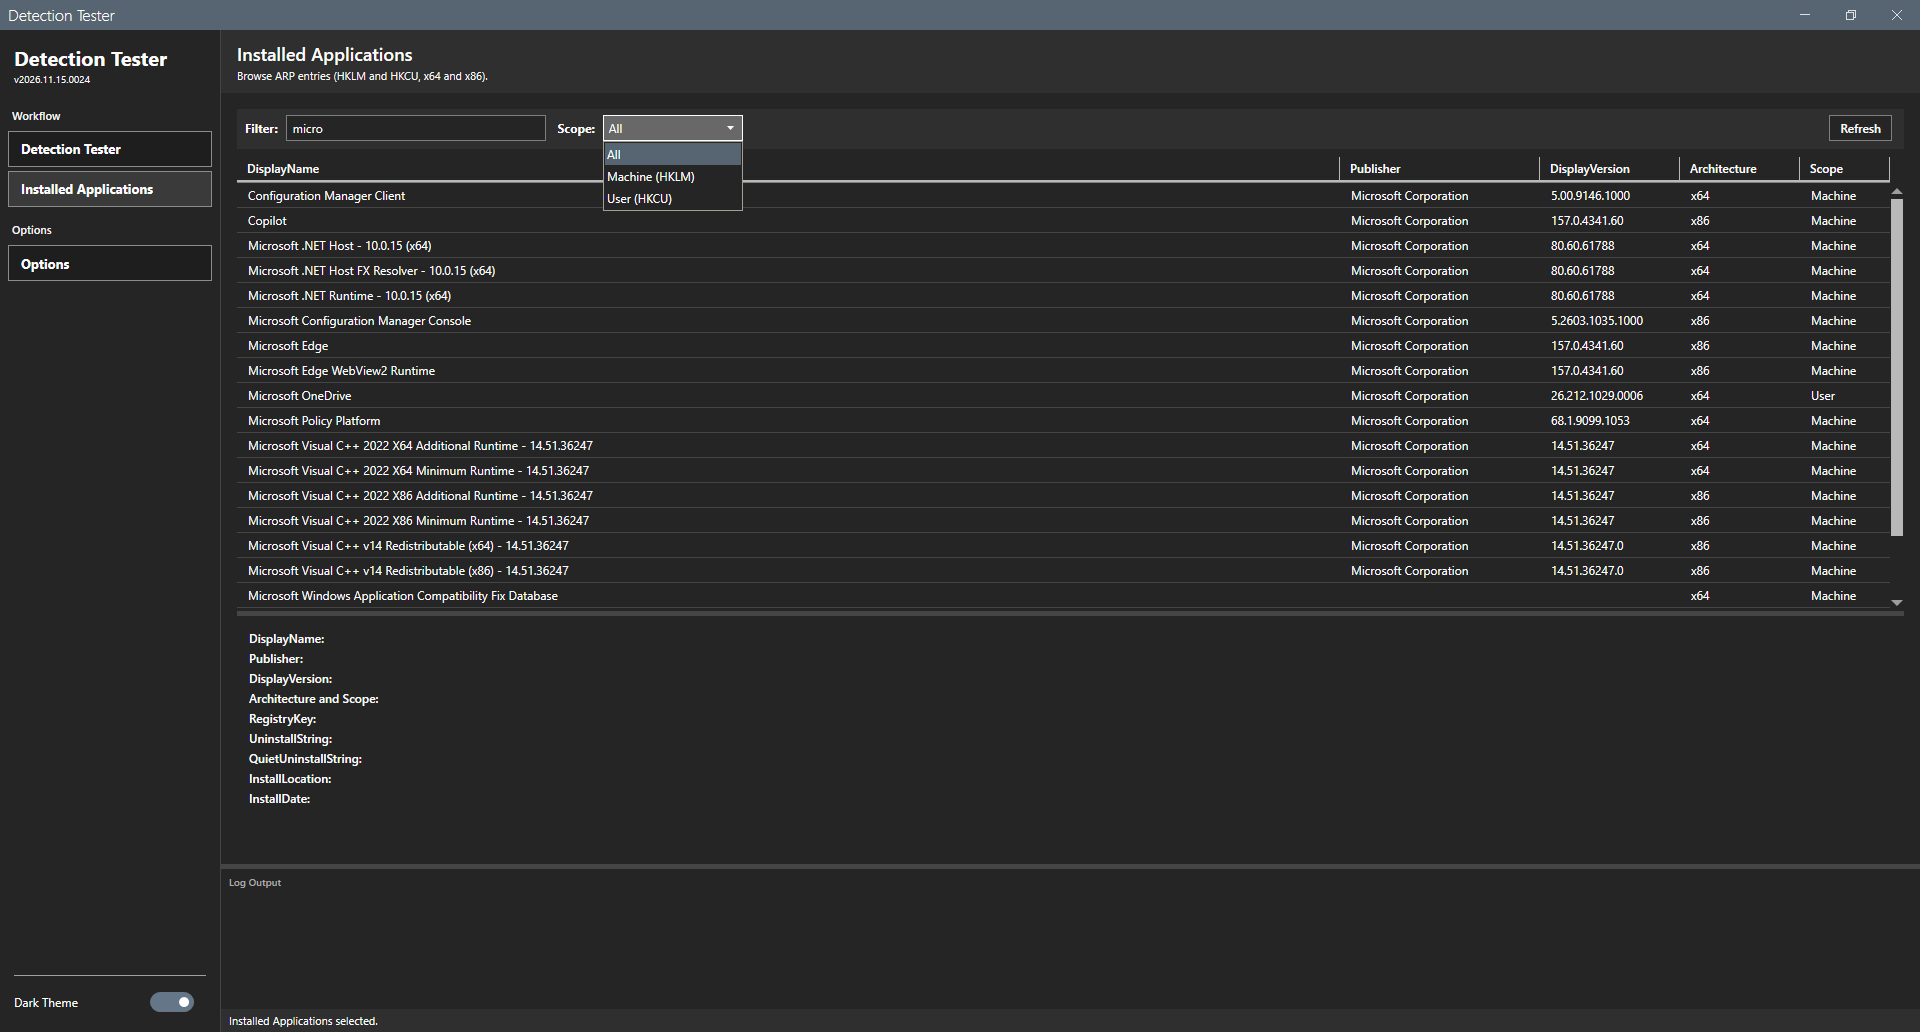
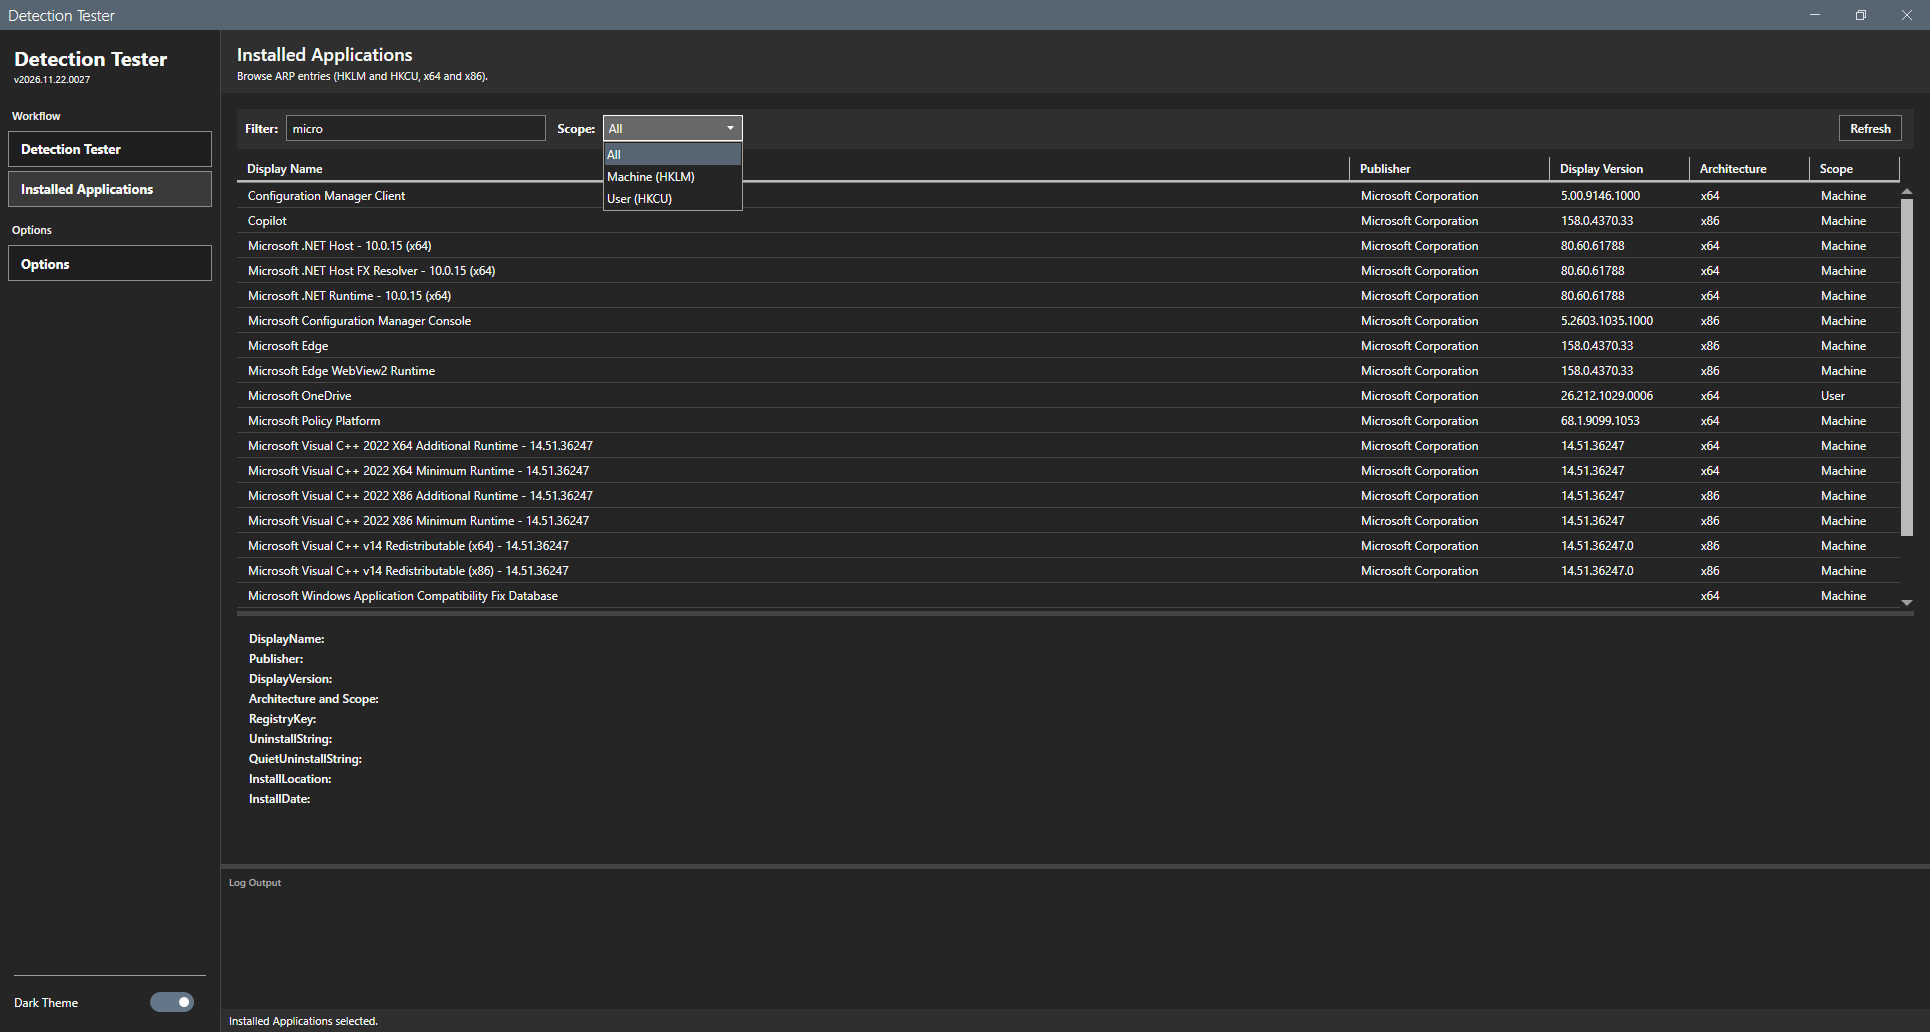
Check the case of grid column headers; rename the Installed Applications headers (#43)

diff --git a/Modules/InstalledApps.xaml b/Modules/InstalledApps.xaml
@@ -48,9 +48,9 @@
               Style="{DynamicResource HistoryGridStyle}"
               CellStyle="{DynamicResource GridCellStyle}">
         <DataGrid.Columns>
-            <DataGridTextColumn Header="DisplayName"    Binding="{Binding DisplayName}"    Width="*"/>
+            <DataGridTextColumn Header="Display Name"   Binding="{Binding DisplayName}"    Width="*"/>
             <DataGridTextColumn Header="Publisher"      Binding="{Binding Publisher}"      Width="200"/>
-            <DataGridTextColumn Header="DisplayVersion" Binding="{Binding DisplayVersion}" Width="140"/>
+            <DataGridTextColumn Header="Display Version" Binding="{Binding DisplayVersion}" Width="140"/>
             <DataGridTextColumn Header="Architecture"   Binding="{Binding Architecture}"   Width="120"/>
             <DataGridTextColumn Header="Scope"          Binding="{Binding Scope}"          Width="90"/>
         </DataGrid.Columns>

diff --git a/docs/core/installed-applications.md b/docs/core/installed-applications.md
@@ -19,7 +19,7 @@ None.
 ### Browse the entries
 
 1. Select **Installed Applications** in the sidebar. The grid fills.
-2. Review the columns: **DisplayName**, **Publisher**, **DisplayVersion**, **Architecture** and **Scope**. The window shows the column headers in capital letters.
+2. Review the columns: **Display Name**, **Publisher**, **Display Version**, **Architecture** and **Scope**.
 
 ![The Installed Applications page](../images/installed-panel.png)
 

diff --git a/CHANGELOG.md b/CHANGELOG.md
@@ -2,6 +2,11 @@
 
 ## [Unreleased]
 
+### Fixed
+
+- Rename the Installed Applications headers DisplayName and DisplayVersion to Display Name and Display Version.
+- Check the case of every grid column header by a guard test and by a window test.
+
 ## [2026.11.22.0027] - 2026-11-22
 
 ## 1 shared module synchronized: no per-site data
